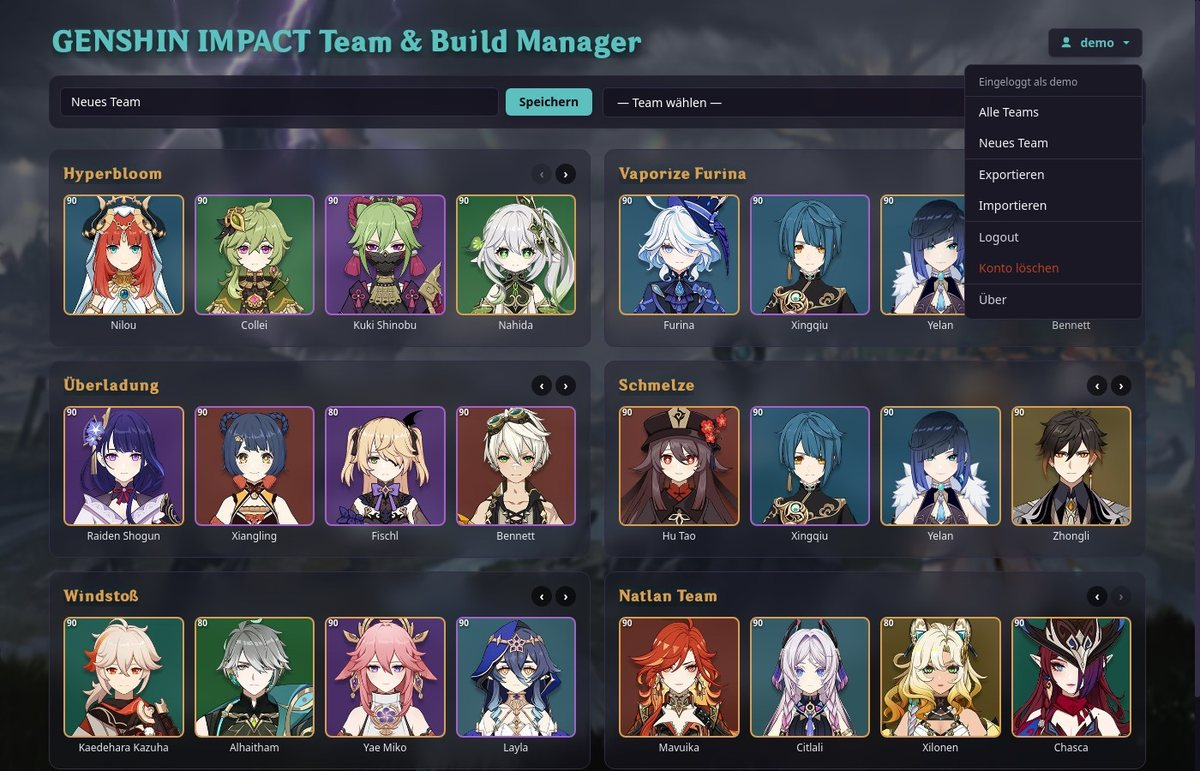
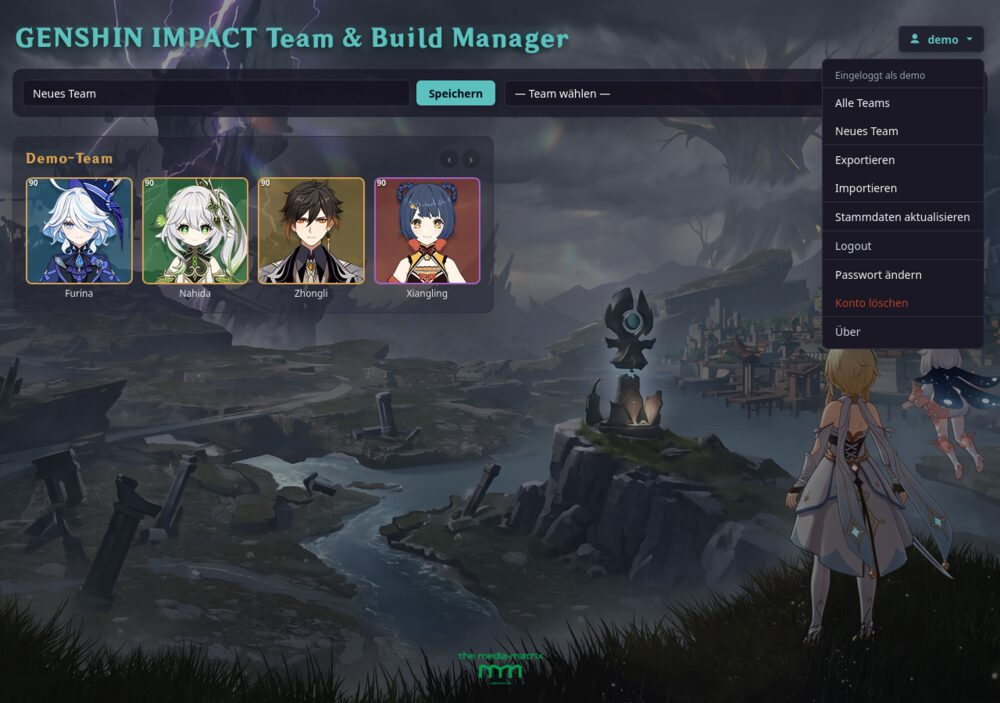
Web 1.8.0: Dokumentation aktualisiert (Passwort ändern, Administrator-Menü, Tools, Versionen), neue Screenshots

diff --git a/web/index.html b/web/index.html
@@ -196,7 +196,7 @@
             <img src="/assets/images/paimon.png" alt="" width="72" height="72" class="mx-auto mb-3">
             <h2 id="aboutTitle" class="genshin-title text-lg font-bold text-accent mb-1">Genshin Impact Team & Build Manager</h2>
             <!-- Bei jeder Änderung zusammen mit CHANGELOG.md hochzählen (ein Test vergleicht beide) -->
-            <div id="webVersion" class="text-sm text-gray-200 mb-3">Web-Version 1.7.2</div>
+            <div id="webVersion" class="text-sm text-gray-200 mb-3">Web-Version 1.8.0</div>
             <p class="text-sm text-gray-300 mb-3">Teams aus bis zu vier Charakteren und die Builds deiner Charaktere verwalten, abgeglichen mit der Android-App.</p>
             <p class="text-[11px] text-gray-400 mb-4">Inoffizielles Fanprojekt, nicht mit HoYoverse verbunden. Genshin Impact sowie zugehörige Namen und Bilder sind Eigentum von HoYoverse.</p>
             <a id="aboutLogoLink" href="https://www.media-matrix.de" target="_blank" rel="noopener noreferrer" title="www.media-matrix.de" class="inline-block mb-4 opacity-90 hover:opacity-100 transition-opacity">

diff --git a/README.md b/README.md
@@ -25,7 +25,8 @@ Du spielst nur mit und willst die App benutzen? Dann geht es hier zur [Anleitung
 - **Artefakt-Details:** je Slot (Blume, Feder, Sanduhr, Kelch, Krone) der Name des Teils (Auswahl aus allen Sets, die Teile der gewählten Sets stehen oben, ein Off-Piece ist möglich), Seltenheit, Level, Hauptwert und bis zu 4 Substats
 - **Suche** und Filter für Charaktere (Region, Element, Seltenheit) und Waffen (Typ, Seltenheit)
 - **Austausch** von Builds und Teams zwischen den Clients als JSON-Datei
-- **Konto anlegen und löschen** (Android, Web): Registrierung und endgültiges Löschen des Kontos samt Teams und Builds, jeweils direkt in der App bzw. Seite (Löschen nur nach erneuter Passworteingabe)
+- **Konto anlegen, Passwort ändern und löschen:** Registrierung und endgültiges Löschen des Kontos samt Teams und Builds in Web und Android (Löschen nur nach erneuter Passworteingabe); **Passwort ändern** im Web (im Benutzermenü)
+- **Stammdaten aktualisieren** für Administratoren (Web): neue Charaktere und Waffen samt Bildern aus dem Benutzermenü eintragen
 - **Handy und Tablet** (Android): Das Handy bleibt im Hochformat (eine Spalte); auf dem Tablet drehbar, mit zwei bis drei Spalten bei den Teams und zweispaltigen Builds
 - **„Über“-Dialog** in allen Clients mit Version, Hinweis zum Fanprojekt und dem Logo von the media-matrix
 - **Offline ansehen** (Android): Teams und Builds bleiben auch ohne Verbindung sichtbar
@@ -38,7 +39,7 @@ Ein Build gehört zum **Charakter, nicht zum Team**: Kommt ein Charakter in mehr
 |---|---|---|---|
 | **Technik** | Python, PySide6 (Qt) | HTML/JavaScript (Tailwind), PHP | Kotlin, Jetpack Compose |
 | **Daten** | lokale SQLite-Datei | MySQL/MariaDB auf dem Server | über die Web-API (Online-Client) |
-| **Konten** | ein Nutzer, lokal | Registrierung, Login und Konto löschen, Daten je Nutzer | Anmeldung, Registrierung und Konto löschen am Web-Konto per Token |
+| **Konten** | ein Nutzer, lokal | Registrierung, Login, Passwort ändern und Konto löschen, Daten je Nutzer | Anmeldung, Registrierung und Konto löschen am Web-Konto per Token |
 | **Voraussetzung** | Python 3.10+, PySide6 | Webserver mit PHP und MySQL | Android 8.0 oder neuer (Handy und Tablet) |
 | **Doku** | [desktop/README.md](desktop/README.md) | [web/README.md](web/README.md) | [android/README.md](android/README.md) |
 
@@ -88,8 +89,8 @@ Eine fertige APK wird nicht verteilt, die App baut man selbst: den Ordner `andro
 desktop/     Desktop-App (main.py, Qt-Widgets, SQLite-Zugriff)
 web/         Web-App
   index.html   komplettes Frontend
-  api/         PHP-Endpunkte (JSON-API)
-  migrations/  SQL-Änderungen für bestehende Datenbanken
+  api/         PHP-Endpunkte (JSON-API, u. a. auth.php, teams.php, transfer.php, stammdaten.php für Administratoren)
+  migrations/  SQL-Änderungen für bestehende Datenbanken (001 bis 011)
   schema.sql   Schema (aus den Abfragen abgeleitet)
 android/     Android-App (Gradle-Projekt)
 shared/      Gemeinsame Daten aller Clients
@@ -97,6 +98,7 @@ shared/      Gemeinsame Daten aller Clients
   assets/images/           Icons und Hintergrund
   assets/zh-cn.ttf         Genshin-Schriftart
   exchange-format.md       Spezifikation des JSON-Austauschs (mit Schema und Beispiel)
+tools/       update_stammdaten.py (Stammdaten prüfen und ergänzen), remote_sql.py (SQL auf dem Server)
 deploy/      Upload-Skript für die Web-Version
 docs/        Screenshots
 ```
@@ -109,7 +111,7 @@ docs/        Screenshots
 - **Bilder** werden über den Namen gefunden: Kleinbuchstaben, Leerzeichen und Bindestriche werden zu `_`, Klammerzusätze fallen weg. „Hu Tao“ → `hu_tao.png`, „Traveler (Dendro)“ → `traveler.png`. Neue Bilder müssen dieser Regel folgen.
 - **Austauschformat** (`shared/exchange-format.md`, dazu `exchange-format.schema.json` und `testdata/export-beispiel.json`): `{"format": "genshin-team-manager", "version": 1, "builds": [...], "teams": [...]}`. Änderungen am Format müssen in allen Clients nachgezogen werden.
 
-Ein neuer Charakter oder eine neue Waffe braucht also: einen Eintrag in `shared/stammdaten.json`, ein Bild in `shared/assets/images/` und – auf dem Server – einen Datensatz in der Datenbank.
+Ein neuer Charakter oder eine neue Waffe braucht also: einen Eintrag in `shared/stammdaten.json`, ein Bild in `shared/assets/images/` und – auf dem Server – einen Datensatz in der Datenbank. Das alles erledigt `tools/update_stammdaten.py` (siehe unten) bzw. für Administratoren der Menüpunkt „Stammdaten aktualisieren“.
 
 ### Stammdaten auf Aktualität prüfen und ergänzen
 
@@ -130,6 +132,8 @@ python3 tools/remote_sql.py web/migrations/<datei>.sql   # eine SQL-Datei (INSER
 
 Die **Region** kommt aus [genshin-db](https://github.com/theBowja/genshin-db); fehlt sie dort, wird der Charakter nur gemeldet (dann in `shared/regionen.json` als `{"Name": "Region"}` oder per `--region` ergänzen), nie geraten. Charaktere und Waffen, die genshin-db nicht kennt, werden nicht eingetragen (vermutlich noch nicht erschienen); neue Waffen bekommen ihren Passiv-Text von dort. `--auto` bricht bei mehr als 15 neuen Einträgen ab (`--max-new`). Neue Regionen (z. B. Nod-Krai) erscheinen im Region-Filter automatisch.
 
+**Im Web** geht dasselbe für Administratoren über den Menüpunkt „Stammdaten aktualisieren“ im Benutzermenü: Der Dialog listet, was fehlt (bei Charakteren mit der Region aus genshin-db vorausgewählt); ausgewählt wird per Haken. Das ändert nur die Datenbank und die Bilder auf dem Server, nicht `shared/stammdaten.json` im Repository; ein späterer Lauf des Skripts holt das lokal nach. Administratoren stehen in `web/api/admins.local.php` (`<?php return ['benutzername'];`, nicht im Git, wird vom Deploy nie hochgeladen). Die Android-App und der Desktop kennen diese Funktion nicht.
+
 **Wie die Datenbank ohne phpMyAdmin erreicht wird:** Sie ist nur vom Server aus erreichbar. `tools/remote_sql.py` lädt eine einmalige PHP-Datei (`api/_sql_<zufall>.php`) per FTPS hoch und ruft sie per HTTPS auf. Die Datei enthält nur den SHA-256-Hash eines Zufalls-Tokens, nutzt die `api/db.php` des Servers, führt alles in einer Transaktion aus (nur INSERT/UPDATE/DELETE/REPLACE), löscht sich selbst und wird vom Skript per FTP-Liste kontrolliert.
 
 ## Entwicklung
@@ -142,12 +146,12 @@ Die **Region** kommt aus [genshin-db](https://github.com/theBowja/genshin-db); f
 ## Bereitstellung
 
 - **Web-Version hochladen:** `deploy/deploy.sh --dry-run` zeigt, was sich ändern würde, `deploy/deploy.sh` lädt es per FTPS hoch (Zugangsdaten in `deploy/deploy.local.env`, Vorlage: `deploy/deploy.example.env`; Anleitung in [deploy/README.md](deploy/README.md)). Das Skript lädt nur Geändertes hoch, sichert vorher die überschriebenen Dateien und fasst `api/db.php` sowie `api/config.local.php` nie an.
-- **Datenbank:** Neue Tabellen kommen über `web/migrations/` (`001_api_tokens.sql` für den Token-Login der App, `002_auth_attempts.sql` für die Begrenzung von Anmeldeversuchen, `004_artifact_pieces.sql` für die Namen der Artefaktteile, `005_weapon_passives.sql` für die Passiv-Beschreibungen der Waffen, `006_stat_vtd.sql` für die Umbenennung DEF → VTD in gespeicherten Builds); jede Migration einmal ausführen.
+- **Datenbank:** Neue Tabellen kommen über `web/migrations/` (`001_api_tokens.sql` für den Token-Login der App, `002_auth_attempts.sql` für die Begrenzung von Anmeldeversuchen, `003_team_position.sql` für die Reihenfolge der Teams, `004_artifact_pieces.sql` für die Namen der Artefaktteile, `005_weapon_passives.sql` für die Passiv-Beschreibungen der Waffen, `006_stat_vtd.sql` für die Umbenennung DEF → VTD in gespeicherten Builds, `007` bis `011` für neue Charaktere und Waffen bzw. das Entfernen nie erschienener); jede Migration einmal ausführen, am bequemsten mit `python3 tools/remote_sql.py web/migrations/<datei>.sql`.
 - **Android-Release:** Signieren und Bauen beschreibt [android/README.md](android/README.md). Eine fertige APK wird nicht veröffentlicht.
 
 ## Versionen
 
-Web, Android und Desktop tragen seit 1.6.0 dieselbe Versionsnummer (aktuell **1.6.4**). Sie steht jeweils im „Über“-Dialog (Web: Benutzermenü → Über; Android: Menü ⋮ → Über; Desktop: Hilfe → Über…) und an diesen Stellen im Code, die bei jeder Version zusammen mit dem [CHANGELOG.md](CHANGELOG.md) hochgezählt werden:
+Web, Android und Desktop trugen seit 1.6.0 dieselbe Versionsnummer. Aktuell sind **Web 1.8.0** (neu: Passwort ändern, Administrator-Menü), **Android 1.7.2** und **Desktop 1.7.2**. Die Version steht jeweils im „Über“-Dialog (Web: Benutzermenü → Über; Android: Menü ⋮ → Über; Desktop: Hilfe → Über…) und an diesen Stellen im Code, die bei jeder Version zusammen mit dem [CHANGELOG.md](CHANGELOG.md) hochgezählt werden:
 
 | Client | Stelle |
 |---|---|
@@ -155,7 +159,7 @@ Web, Android und Desktop tragen seit 1.6.0 dieselbe Versionsnummer (aktuell **1.
 | Android | `android/app/build.gradle.kts` (`versionName`, `versionCode`) |
 | Desktop | `desktop/models.py` (`APP_VERSION`) |
 
-Tests prüfen, dass die Versionen in Web und Desktop mit dem obersten Eintrag des Changelogs übereinstimmen.
+Tests prüfen, dass die Versionen in Web und Desktop mit dem jeweils obersten Eintrag des Changelogs übereinstimmen.
 
 ## Änderungsverlauf
 
@@ -163,7 +167,7 @@ Siehe [CHANGELOG.md](CHANGELOG.md).
 
 ## Persönliche Daten
 
-Diese Dateien enthalten persönliche Daten oder Zugangsdaten und stehen in der `.gitignore`: `desktop/genshin_manager.db` (Teams und Builds), `web/api/config.local.php` (Datenbank), `deploy/deploy.local.env` (FTP), `android/keystore.properties` und `android/release.keystore` (Signierschlüssel). Den Signierschlüssel unbedingt separat sichern.
+Diese Dateien enthalten persönliche Daten oder Zugangsdaten und stehen in der `.gitignore`: `desktop/genshin_manager.db` (Teams und Builds), `web/api/config.local.php` (Datenbank), `web/api/admins.local.php` (Administratoren), `deploy/deploy.local.env` (FTP), `android/keystore.properties` und `android/release.keystore` (Signierschlüssel). Den Signierschlüssel unbedingt separat sichern.
 
 ## Hinweis
 

diff --git a/web/README.md b/web/README.md
@@ -4,11 +4,11 @@ Web-App zum Zusammenstellen von Genshin-Impact-Teams und Verwalten der Charakter
 
 ## Funktionen
 
-- Registrierung und Login (Session-basiert)
+- Registrierung, Login (Session-basiert), **Passwort ändern** und Konto löschen
 - Teams mit bis zu 4 Charakteren anlegen, speichern und löschen; die Karten lassen sich per Drag & Drop am Kopfbereich oder mit den Pfeilen ‹ › umsortieren
 - Pro Charakter: Level, Konstellation, Talente, Waffe (Level, Raffinierung), Artefaktsets (4er oder 2×2er, mit Tooltip der Set-Boni) und Waffe (Tooltip mit dem Passiv zur gewählten Veredelung) und die Substats aller 5 Artefakte (Blume, Feder, Sanduhr, Kelch, Krone), je mit dem Namen des Teils (Dropdown mit Suchfeld: Teile der gewählten Sets zuerst, danach alle übrigen für ein Off-Piece)
 - Suchbare Auswahllisten für Charaktere und Waffen
-- Kopfzeile mit Benutzermenü (Exportieren, Importieren, Logout); die Team-Steuerung darunter bricht auf schmalen Displays gruppenweise um und lässt sich am Handy bedienen
+- Kopfzeile mit Benutzermenü (Alle Teams, Neues Team, Exportieren, Importieren, Logout, Passwort ändern, Konto löschen, Über; für **Administratoren** zusätzlich **Stammdaten aktualisieren**); die Team-Steuerung darunter bricht auf schmalen Displays gruppenweise um und lässt sich am Handy bedienen
 
 Builds werden **pro Nutzer und Charakter** gespeichert, nicht pro Team. Ändert man den Build eines Charakters, gilt die Änderung in allen Teams, in denen er vorkommt.
 
@@ -25,13 +25,16 @@ index.html          Komplettes Frontend
 tests/              Tests des Frontends (Node, jsdom), nicht für den Server
 api/
   db.php            Datenbankverbindung
-  auth_check.php    Session-Setup, Bearer-Token, require_login()
-  auth.php          ?action=status|register|login|token|logout|delete_account
+  auth_check.php    Session-Setup, Bearer-Token, require_login(), is_admin(), require_admin()
+  auth.php          ?action=status|register|login|token|logout|change_password|delete_account
   rate_limit.php    Begrenzung von Anmelde- und Registrierungsversuchen
   characters.php    Charakterliste (GET)
   weapons.php       Waffenliste (GET)
   artifacts.php     Artefaktsets (GET)
   teams.php         Teams des Nutzers (GET / POST / DELETE)
+  transfer.php      Export und Import der Builds und Teams
+  stammdaten.php    Stammdaten abgleichen und ergänzen (nur Administratoren)
+  stammdaten_lib.php  Helfer dafür (Abruf der Quelle, Bilder speichern)
 assets/             Symlink auf ../shared/assets (Bilder <name>.png, Schriftart zh-cn.ttf)
 ```
 
@@ -59,6 +62,17 @@ assets/             Symlink auf ../shared/assets (Bilder <name>.png, Schriftart 
    ```
 
    Danach http://localhost:8000 öffnen.
+
+## Administratoren und Stammdaten
+
+`stammdaten.php` gleicht die Datenbank mit der öffentlichen Datenquelle [Enka.Network](https://github.com/EnkaNetwork/API-docs) ab und trägt auf Wunsch Fehlendes samt Bildern ein. Das geht nur für Nutzer aus `api/admins.local.php` (`<?php return ['benutzername'];`, nicht im Git, wird vom Deploy nie hochgeladen; alternativ die Umgebungsvariable `ADMIN_USERS`, kommagetrennt). `auth.php?action=status` liefert dazu `is_admin`; `require_admin()` antwortet sonst mit **403**.
+
+- **`GET ?action=check`** liefert `{new: {characters, weapons}, skipped: […]}`. Die Region der Charaktere (`region`) und das Passiv der Waffen kommen aus [genshin-db](https://github.com/theBowja/genshin-db). Was genshin-db nicht kennt, steht in `skipped` (vermutlich noch nicht erschienen) und wird nicht eingetragen.
+- **`POST`** `{characters: [{name, region}], weapons: [Name]}` nimmt nur die **Namen** der gewählten Einträge (und die Region, gegen die Liste der erlaubten geprüft) an; der Server rechnet die Einträge selbst aus der Quelle aus. Der Header `X-Requested-With: fetch` ist Pflicht, höchstens 50 Einträge je Anfrage, Antwort `{added, images: {geladen, vorhanden, fehler}}`.
+- Bilder lädt der Server nach `assets/images/` (nur gültige PNG-Dateien, vorhandene werden nie überschrieben); der Ordner muss für PHP beschreibbar sein.
+- `shared/stammdaten.json` im Repository ändert der Endpunkt nicht; `tools/update_stammdaten.py` holt das lokal nach.
+
+**Passwort ändern:** `POST api/auth.php?action=change_password` mit `{old_password, new_password}` (Session oder Token). 6 bis 72 Zeichen, anders als das alte; ein falsches aktuelles Passwort ergibt **403** und zählt für die Begrenzung wie ein fehlgeschlagener Login. Bei Erfolg werden alle anderen Tokens des Nutzers ungültig (ein Token der laufenden Anfrage bleibt).
 
 ## Tests
 

diff --git a/CHANGELOG.md b/CHANGELOG.md
@@ -2,6 +2,14 @@
 
 Die Android-App wird nicht als fertige APK verteilt, sondern bei Bedarf selbst gebaut (siehe [android/README.md](android/README.md)); die Web-Version läuft per `deploy/deploy.sh` auf dem Server, der Desktop direkt aus dem Repo. Dieser Verlauf fasst die wichtigsten Änderungen zusammen. Seit 1.6.0 haben Web, Android und Desktop dieselbe Versionsnummer (der „Über“-Dialog war bereits in den ersten 1.6.0-Ständen enthalten und ist hier unter 1.6.1 beschrieben); frühere Web-Versionen (1.0.0–1.4.0) sind rückwirkend aus dem Git-Verlauf vergeben.
 
+## Web 1.8.0 (14.11.2026)
+- „Passwort ändern“ im Benutzermenü: aktuelles Passwort und zweimal das neue (6 bis 72 Zeichen); der Server prüft das aktuelle (falsch = „Das aktuelle Passwort ist falsch.“, zählt für die Begrenzung der Anmeldeversuche). Andere angemeldete Geräte (z. B. die Android-App) müssen sich danach neu anmelden, diese Sitzung bleibt. API: `auth.php?action=change_password`
+- **Administratoren** (Konto in `web/api/admins.local.php`, nicht im Git) sehen im Benutzermenü „Stammdaten aktualisieren“: Der Dialog gleicht Charaktere und Waffen mit der Datenquelle ab und trägt die ausgewählten samt Bildern ein. Die Region der Charaktere kommt aus genshin-db (im Dialog vorausgewählt), Waffen bekommen ihr Passiv von dort; Einträge, die genshin-db nicht kennt (vermutlich noch nicht erschienen), werden nicht eingetragen. API: `stammdaten.php`, Status: `auth.php?action=status` liefert zusätzlich `is_admin`
+- Der Region-Filter der Charakterauswahl baut sich aus den vorhandenen Charakteren auf (neue Regionen wie Nod-Krai erscheinen automatisch)
+- Neue Charaktere (u. a. Varesa, Sigewinne, Escoffier, Skirk, Columbina, Mitya, Vesna, Odette) und 46 fehlende Waffenbilder; das Passiv des Megamagischen Schwerts des ultimativen Oberherrn fehlte und ist ergänzt
+- Neu im Repository: `tools/update_stammdaten.py` (Stammdaten prüfen und ergänzen, mit `--auto` auch committen, deployen und die Datenbank aktualisieren) und `tools/remote_sql.py` (SQL ohne phpMyAdmin auf dem Server ausführen). Migrationen `007` bis `011` (neue Charaktere und Waffen)
+- Android und Desktop bleiben auf 1.7.2; sie bekommen die neuen Charaktere mit dem nächsten Build bzw. beim ersten Start einer neuen Datenbank
+
 ## Web 1.7.2 (13.11.2026)
 - Teil-Auswahl der Artefakt-Slots: eigenes Dropdown mit Suchfeld statt der einfachen Browser-Liste. Die Suche findet Teil- und Setnamen (z. B. „gladiator“), die Gruppen „Teile der gewählten Sets“ und „Weitere Teile (Off-Piece)“ bleiben, jeder Eintrag zeigt sein Set. Bedienung auch per Tastatur (Pfeile, Enter, Escape), Klick daneben schließt
 - Die Stats „DEF%“ und „DEF (Fix)“ heißen jetzt „VTD%“ und „VTD (Fix)“ (Verteidigung), bei den Hauptwerten von Sanduhr und Krone und bei den Substats. Bereits gespeicherte Builds werden automatisch umgewandelt: `teams.php` und `transfer.php` wandeln beim Lesen und Speichern um, die neue Migration `006_stat_vtd.sql` stellt zusätzlich die gespeicherten Daten um (einmal ausführen)
